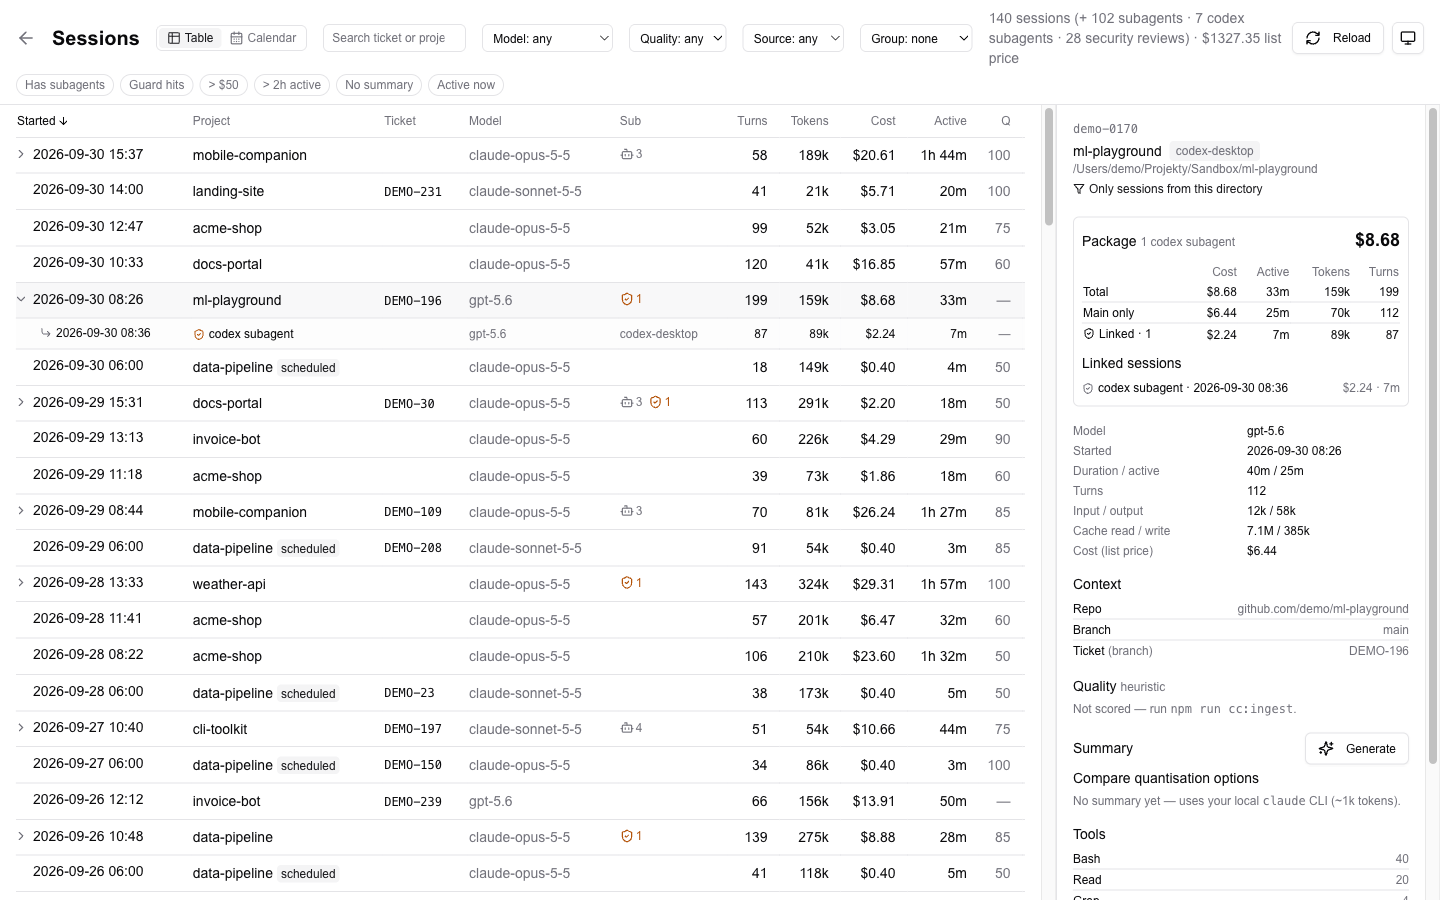
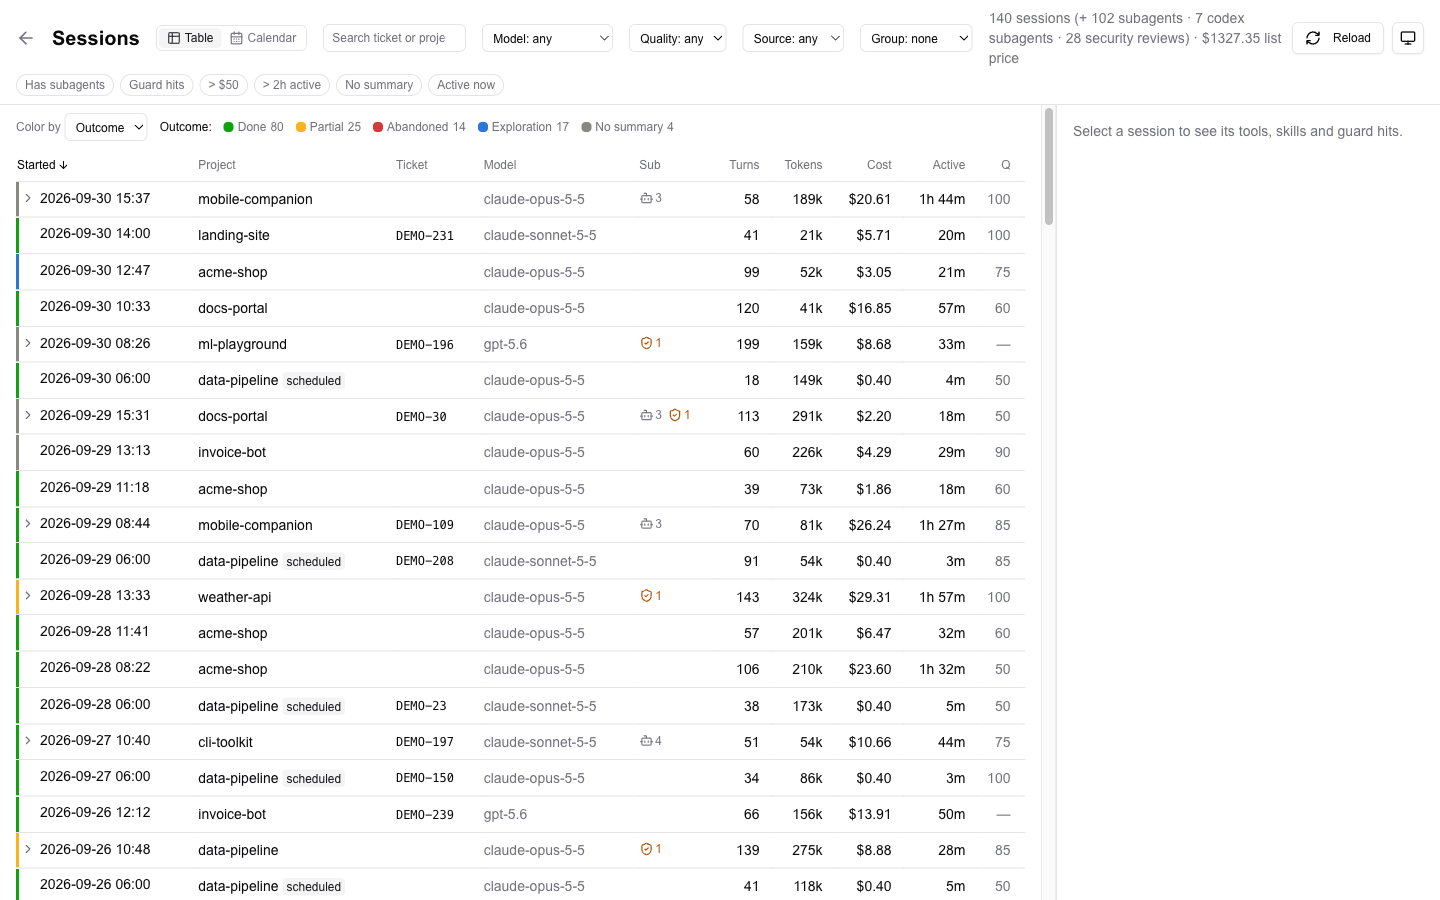
feat(sessions): Color by in the table too (shared with the calendar)

diff --git a/src/app/sessions/calendar-view.js b/src/app/sessions/calendar-view.js
@@ -5,34 +5,25 @@ import { format, isSameMonth, isToday } from 'date-fns'
 import { ChevronLeft, ChevronRight } from 'lucide-react'
 import { Button } from '@/components/ui/button'
 import {
-  bannerIds, calendarFamilies, calendarSlot, colorBy, colorLegend, COLOR_MODES, DEFAULT_COLOR_MODE, daySegment,
+  bannerIds, calendarFamilies, calendarSlot, colorBy, COLOR_MODES, DEFAULT_COLOR_MODE, daySegment,
   harnessBadge, layoutDay, periodLabel, periodStats, shiftPeriod,
 } from '@/lib/cc/session-calendar.mjs'
 import { SummaryBanner } from './summary-banner'
+import { ColorLegend, ColorSelect } from './color-controls'
 import { displayTitle, OUTCOME_ICON, parseSummary } from '@/lib/cc/summary-view.mjs'
 
 const HOUR_PX = 44
 const projectName = (dir) => (dir ? dir.split('/').filter(Boolean).at(-1) : '—')
 const fmtCost = (c) => `$${(c || 0).toFixed(2)}`
 const fmtHours = (s) => `${(s / 3600).toFixed(1)} h`
-const COLOR_KEY = 'stow.calendar.colorBy'
 
 /**
  * `loadedKey`/`wantKey` (see loadKey): the families on hand may still be the
  * table's rows or the previous period while this one loads. Until the keys
  * match, stats and the banner stay empty so they never count what isn't shown.
  */
-export function CalendarView({ families, range, loadedKey, wantKey, selected, onOpen, onNavigate, onSpan, onRefresh }) {
+export function CalendarView({ families, range, loadedKey, wantKey, selected, onOpen, onNavigate, onSpan, onRefresh, colorMode = DEFAULT_COLOR_MODE, onColorMode }) {
   const [showAll, setShowAll] = useState(false)
-  // Per-viewer preference; read after mount so the server render stays stable.
-  const [colorMode, setColorMode] = useState(DEFAULT_COLOR_MODE)
-  useEffect(() => {
-    try { const v = localStorage.getItem(COLOR_KEY); if (v && COLOR_MODES[v]) setColorMode(v) } catch { /* storage blocked */ }
-  }, [])
-  function pickColor(v) {
-    setColorMode(v)
-    try { localStorage.setItem(COLOR_KEY, v) } catch { /* storage blocked */ }
-  }
   const events = useMemo(() => calendarFamilies(families, { showAll }), [families, showAll])
   const ready = loadedKey != null && loadedKey === wantKey
   const stats = ready ? periodStats(events.filter((e) => !e.muted)) : null
@@ -41,8 +32,8 @@ export function CalendarView({ families, range, loadedKey, wantKey, selected, on
   return (
     <div className="flex h-full min-w-0 flex-col">
       <PeriodHeader range={range} stats={stats} showAll={showAll} onShowAll={setShowAll} onNavigate={onNavigate} onSpan={onSpan}
-        colorMode={colorMode} onColorMode={pickColor} />
-      <ColorLegend events={events} mode={colorMode} />
+        colorMode={colorMode} onColorMode={onColorMode} />
+      <ColorLegend events={events} mode={colorMode} className="mb-2" />
       <SummaryBanner ids={missing} periodKey={periodKey} onProgress={onRefresh} />
       {range.span === 'week'
         ? <WeekGrid days={range.days} events={events} selected={selected} onOpen={onOpen} colorMode={colorMode} />
@@ -132,13 +123,7 @@ function PeriodHeader({ range, stats, showAll, onShowAll, onNavigate, onSpan, co
           {doneShare != null && ` · ${doneShare}% done, ${stats.partial} partial`}
         </> : 'Loading…'}
       </span>
-      <label className="ml-auto inline-flex items-center gap-1 text-xs text-muted-foreground">
-        Color by
-        <select value={colorMode} onChange={(ev) => onColorMode(ev.target.value)}
-          className="h-7 rounded-md border bg-transparent px-1.5 text-xs text-foreground focus:outline-none focus:ring-1 focus:ring-ring">
-          {Object.entries(COLOR_MODES).map(([k, m]) => <option key={k} value={k}>{m.label}</option>)}
-        </select>
-      </label>
+      <span className="ml-auto"><ColorSelect value={colorMode} onChange={onColorMode} /></span>
       <button onClick={() => onShowAll(!showAll)} aria-pressed={showAll}
         className={`rounded-full border px-2 py-0.5 text-xs ${showAll ? 'border-primary bg-primary text-primary-foreground' : 'text-muted-foreground hover:bg-muted hover:text-foreground'}`}
         title="Also show agent spawns, scheduled runs and trivial sessions (muted)">+ agent/scheduled</button>
@@ -199,22 +184,6 @@ function OutcomeMark({ e }) {
   const sum = parseSummary(e)
   if (!sum) return <span title="No summary" className="inline-block h-1.5 w-1.5 flex-none rounded-full bg-muted-foreground" />
   return <span title={sum.outcome} className="flex-none">{OUTCOME_ICON[sum.outcome] || ''}</span>
-}
-
-/** What the colours currently mean: one swatch per bucket, with how many shown sessions fall in it. */
-function ColorLegend({ events, mode }) {
-  const items = colorLegend(events, mode)
-  return (
-    <div className="mb-2 flex flex-wrap items-center gap-x-3 gap-y-1 text-xs text-muted-foreground" aria-label={`Colour legend: ${COLOR_MODES[mode]?.label}`}>
-      <span className="font-medium text-foreground">{COLOR_MODES[mode]?.label}:</span>
-      {items.map((b) => (
-        <span key={b.key} className={`inline-flex items-center gap-1 ${b.count === 0 ? 'opacity-50' : ''}`}>
-          {b.color && <span className="inline-block h-2.5 w-2.5 rounded-sm" style={{ background: b.color }} />}
-          {b.label} <span className="tabular-nums">{b.count}</span>
-        </span>
-      ))}
-    </div>
-  )
 }
 
 export function EventBlock({ e, style, selected, onOpen, compact = false, colorMode = DEFAULT_COLOR_MODE }) {

diff --git a/src/app/sessions/page.js b/src/app/sessions/page.js
@@ -10,9 +10,10 @@ import { ThemeToggle } from '@/components/ThemeToggle'
 import { filterSessions, QUALITY_FILTERS, QUICK_FILTERS, SOURCE_FILTERS } from '@/lib/cc/session-filters.mjs'
 import { buildSessionTree, familyOf, groupFamilies, GROUP_BY, sortFamilies } from '@/lib/cc/session-tree.mjs'
 import { CHILD_KINDS, effectiveKind } from '@/lib/cc/session-link.mjs'
-import { loadKey, periodRange } from '@/lib/cc/session-calendar.mjs'
+import { colorBy, COLOR_MODES, loadKey, periodRange } from '@/lib/cc/session-calendar.mjs'
 import { displayTitle, parseSummary, summaryVersion, OUTCOME_ICON } from '@/lib/cc/summary-view.mjs'
 import { CalendarView } from './calendar-view'
+import { ColorLegend, ColorSelect, useColorMode } from './color-controls'
 
 function fmtTokens(n) {
   if (n == null) return '—'
@@ -322,8 +323,9 @@ const CELL = 'py-1.5 pr-3'
 const NUM = `${CELL} text-right tabular-nums whitespace-nowrap`
 
 /** One family: the head row (rollup numbers) and, when expanded, its subagents and linked sessions. */
-function FamilyRows({ fam, selected, expanded, onToggle, onOpen }) {
+function FamilyRows({ fam, selected, expanded, onToggle, onOpen, colorMode }) {
   const s = fam
+  const bucket = colorBy(fam, colorMode)
   const hasSubs = fam.sub_count > 0
   const r = fam.rollup
   const breakdown = hasSubs
@@ -336,7 +338,8 @@ function FamilyRows({ fam, selected, expanded, onToggle, onOpen }) {
         onClick={() => onOpen(s.session_id)}
         className={`border-b cursor-pointer hover:bg-muted/40 ${selected === s.session_id ? 'bg-muted/60' : ''}`}
       >
-        <td className={`${CELL} whitespace-nowrap tabular-nums`}>
+        <td className={`${CELL} pl-2 whitespace-nowrap tabular-nums`} title={`${COLOR_MODES[colorMode]?.label}: ${bucket.label}`}
+          style={{ boxShadow: `inset 3px 0 0 ${bucket.color}` }}>
           <span className="inline-flex items-center gap-1">
             {hasSubs ? (
               <button
@@ -433,6 +436,7 @@ function SessionsView() {
   const [quick, setQuick] = useState(() => new Set())
   const [groupBy, setGroupBy] = useState('none')
   const [sort, setSort] = useState({ key: 'started_at', dir: 'desc' })
+  const [colorMode, setColorMode] = useColorMode()
   const view = searchParams.get('view') === 'calendar' ? 'calendar' : 'table'
   const span = searchParams.get('span') === 'month' ? 'month' : 'week'
   const dateParam = searchParams.get('date') || ''
@@ -617,6 +621,10 @@ function SessionsView() {
           {!loading && sessions.length > 0 && filtered.length === 0 && (
             <p className="text-sm text-muted-foreground py-6">No sessions match the current filters.</p>
           )}
+          <div className="flex flex-wrap items-center gap-3 py-2">
+            <ColorSelect value={colorMode} onChange={setColorMode} />
+            <ColorLegend events={filtered} mode={colorMode} />
+          </div>
           <table className="w-full text-sm">
             <thead className="sticky top-0 bg-background">
               <tr className="text-left text-xs text-muted-foreground border-b">
@@ -637,7 +645,7 @@ function SessionsView() {
               {groups.map((g) => (
                 <GroupRows key={g.key} group={g} showHeader={groupBy !== 'none'}>
                   {g.items.map((f) => (
-                    <FamilyRows key={f.session_id} fam={f} selected={selected} expanded={expanded.has(f.session_id)} onToggle={() => toggle(f.session_id)} onOpen={open} />
+                    <FamilyRows key={f.session_id} fam={f} colorMode={colorMode} selected={selected} expanded={expanded.has(f.session_id)} onToggle={() => toggle(f.session_id)} onOpen={open} />
                   ))}
                 </GroupRows>
               ))}
@@ -655,6 +663,8 @@ function SessionsView() {
               onNavigate={(d, span) => setParams({ date: format(d, 'yyyy-MM-dd'), ...(span ? { span: span === 'week' ? null : span } : {}) })}
               onSpan={(s) => setParams({ span: s === 'week' ? null : s })}
               onRefresh={() => load({ ingest: false })}
+              colorMode={colorMode}
+              onColorMode={setColorMode}
             />
           )}
         </div>

diff --git a/src/app/sessions/color-controls.js b/src/app/sessions/color-controls.js
@@ -1,0 +1,50 @@
+'use client'
+
+import { useEffect, useState } from 'react'
+import { colorLegend, COLOR_MODES, DEFAULT_COLOR_MODE } from '@/lib/cc/session-calendar.mjs'
+
+const COLOR_KEY = 'stow.calendar.colorBy'
+
+/**
+ * "Color by" choice shared by the table and the calendar. Per-viewer
+ * preference in localStorage, read after mount so the server render stays stable.
+ */
+export function useColorMode() {
+  const [mode, setMode] = useState(DEFAULT_COLOR_MODE)
+  useEffect(() => {
+    try { const v = localStorage.getItem(COLOR_KEY); if (v && COLOR_MODES[v]) setMode(v) } catch { /* storage blocked */ }
+  }, [])
+  function pick(v) {
+    setMode(v)
+    try { localStorage.setItem(COLOR_KEY, v) } catch { /* storage blocked */ }
+  }
+  return [mode, pick]
+}
+
+export function ColorSelect({ value, onChange }) {
+  return (
+    <label className="inline-flex items-center gap-1 text-xs text-muted-foreground">
+      Color by
+      <select value={value} onChange={(ev) => onChange(ev.target.value)}
+        className="h-7 rounded-md border bg-transparent px-1.5 text-xs text-foreground focus:outline-none focus:ring-1 focus:ring-ring">
+        {Object.entries(COLOR_MODES).map(([k, m]) => <option key={k} value={k}>{m.label}</option>)}
+      </select>
+    </label>
+  )
+}
+
+/** What the colours currently mean: one swatch per bucket, with how many shown sessions fall in it. */
+export function ColorLegend({ events, mode, className = '' }) {
+  const items = colorLegend(events, mode)
+  return (
+    <div className={`flex flex-wrap items-center gap-x-3 gap-y-1 text-xs text-muted-foreground ${className}`} aria-label={`Colour legend: ${COLOR_MODES[mode]?.label}`}>
+      <span className="font-medium text-foreground">{COLOR_MODES[mode]?.label}:</span>
+      {items.map((b) => (
+        <span key={b.key} className={`inline-flex items-center gap-1 ${b.count === 0 ? 'opacity-50' : ''}`}>
+          {b.color && <span className="inline-block h-2.5 w-2.5 rounded-sm" style={{ background: b.color }} />}
+          {b.label} <span className="tabular-nums">{b.count}</span>
+        </span>
+      ))}
+    </div>
+  )
+}

diff --git a/CLAUDE.md b/CLAUDE.md
@@ -291,7 +291,7 @@ A second, session-centric view of Claude Code usage lives in `data/cc-sessions.d
 - **Summary v2**: `{v:2, title, what, outcome: done|partial|abandoned|exploration, improvements (≤5), followups (≤4), kind_hint, model, ms}`; v1 rows stay readable. Titles are never overwritten by summaries.
 - **Batch**: `POST /api/sessions/summarize-batch` (+ `estimate/`, range GET). Model `CC_SUMMARY_BATCH_MODEL` (default `claude-sonnet-5-5`), concurrency 3. Job state lives in SQLite `summary_jobs` (cross-process with the MCP server `summarize_sessions`, 60 s stale heartbeat). The runner never rejects and marks the job `stopped` on fatal errors; sessions whose last write is < 10 min old are skipped (10-min rule), and so are sessions whose transcript (`raw_ref`) is gone from disk. Concurrency is clamped to 1..8; a start with nothing to do inserts no job row and returns the latest job with `started: false`. `cc:eval` drives it with a live heartbeat clock. `openStore` sets `PRAGMA busy_timeout = 5000` for file DBs so the web app, CLI and MCP can share the DB. Estimate: `ceil(count/concurrency) x median(ms of last 50)`, fallback 30 s (Sonnet) / 10 s (haiku) per session.
 - **Calendar** (`/sessions?view=calendar&span=week|month&date=YYYY-MM-DD`): Table|Calendar toggle, local time, Monday first, max span one month, default shows only `work` (chip reveals agent/scheduled/trivial muted; `scheduled` gets a neutral badge). Placement: `end = ended_at` if span <= 5 h else `start + max(active_s, 30 min)`, min height 15 min. Banner scope = visible events (current period, filters, chip) with no summary at all (v0; `--upgrade` is CLI/MCP only), counted only once the loaded data matches the displayed view/period/project (`loadKey`/`bannerIds`). The page ignores stale load responses (latest request wins). One-off PoC import: `npm run cc:import-summaries`.
-- **Color by** (calendar header, per-viewer in localStorage `stow.calendar.colorBy`, default `outcome`): `COLOR_MODES` / `colorBy` / `colorLegend` in `session-calendar.mjs` — outcome (status colours `--status-*`, always paired with the outcome icon), project (hashed, 6 hues), harness and kind (categorical `--viz-*` in fixed order), cost and quality (one-hue ordinal ramp `--seq-1..4`, defined per theme in `globals.css`). A legend with per-bucket counts under the header says what the colours mean. Palettes were checked with the dataviz validator; outcome's red/green pair relies on the icon for CVD.
+- **Color by** (calendar header and above the table — one shared choice via `useColorMode` in `src/app/sessions/color-controls.js`; table rows get an inset colour bar on the first cell; per-viewer in localStorage `stow.calendar.colorBy`, default `outcome`): `COLOR_MODES` / `colorBy` / `colorLegend` in `session-calendar.mjs` — outcome (status colours `--status-*`, always paired with the outcome icon), project (hashed, 6 hues), harness and kind (categorical `--viz-*` in fixed order), cost and quality (one-hue ordinal ramp `--seq-1..4`, defined per theme in `globals.css`). A legend with per-bucket counts under the header says what the colours mean. Palettes were checked with the dataviz validator; outcome's red/green pair relies on the icon for CVD.
 
 ### Quick Filters
 

diff --git a/README.md b/README.md
@@ -23,7 +23,7 @@ Available as a **web app** or **native desktop app** (macOS).
 - **Size Metrics** - Shows code size vs total size (including node_modules, venv, etc.)
 - **README Viewer** - View project README files directly in the dashboard
 - **AI Session Viewer** - `/sessions` lists your agentic sessions from Claude Code, Codex and Antigravity (tokens, cost, tools, skills, guard hits, quality score, AI summaries) from a local SQLite store, grouped into families: expand a session to see its subagents and hook-spawned child sessions, with the whole package rolled up
-- **Session Calendar** - Week and month views of what you worked on, with a title, outcome and cost on every block. The colours can switch between outcome (default), project, harness, kind, cost and quality, and a legend with counts shows what they currently mean. Scheduled runs and agent spawns are hidden by default
+- **Session Calendar** - Week and month views of what you worked on, with a title, outcome and cost on every block. The colours can switch between outcome (default), project, harness, kind, cost and quality, and a legend with counts shows what they currently mean. The table uses the same choice Scheduled runs and agent spawns are hidden by default
 - **Batch Summaries** - The calendar offers to fill in missing AI summaries for exactly what is on screen (with a time estimate), shows progress, and shares one job with the CLI and the MCP server
 - **Analytics** - `/analytics` charts both worlds: agentic sessions (cost, models, tools, skills, quality; 7d–all range) and the project portfolio (categories, languages, AI cost, commit activity)
 - **MCP Server** - Expose project data to AI assistants (Claude Desktop, Claude Code)
@@ -43,7 +43,7 @@ Available as a **web app** or **native desktop app** (macOS).
 
 ![Session calendar, week view with detail panel](docs/screenshots/sessions-calendar-week.png)
 
-**Session table.** Sessions are grouped into families (nested subagents and linked sessions such as security reviews or Codex subagents), with filters, grouping and sorting.
+**Session table.** Sessions are grouped into families (nested subagents and linked sessions such as security reviews or Codex subagents), with filters, grouping and sorting. The same *Color by* choice as the calendar marks each row with a coloured bar and shows the legend above the table.
 
 ![Session table with an expanded family](docs/screenshots/sessions-table.png)
 
